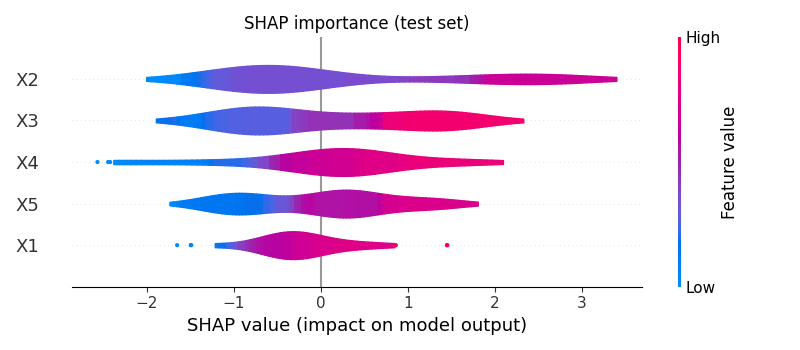
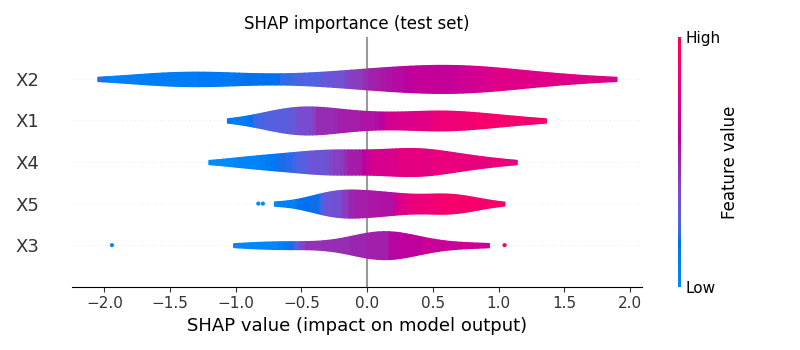
add pdp and ice grpahs

diff --git a/sim.py b/sim.py
@@ -9,6 +9,7 @@ from sklearn.model_selection import train_test_split, GridSearchCV
 from Functions.gen_data import add_noise
 from Functions.plotting import plot_impurity, plot_permutation, plot_SHAP
 from Functions.pred import define_model
+from sklearn.inspection import PartialDependenceDisplay, plot_partial_dependence
 
 # Define the changeable parameters:
 seed = 93
@@ -35,6 +36,7 @@ ones = np.ones((n_features, n_features))
 corr_matrix = iv_cor * ones + (1 - iv_cor) * np.eye(n_features)
 
 # Generate X
+np.random.seed(seed)
 X = np.random.multivariate_normal(mean=means, cov=corr_matrix, size=n_samples)
 
 X_col_names = []
@@ -96,8 +98,6 @@ result = permutation_importance(model, X_test, y_test, n_repeats=permutations,
 perm_importances = result.importances_mean
 dict = {'Feature': vars, "Importance": perm_importances}
 perm_imp_df = pd.DataFrame(dict)
-# just get most important x
-perm_imp_df.sort_values(by="Importance", ascending=False, inplace=True, axis=0)
 # flip so most important at top on graph
 perm_imp_df.sort_values(by="Importance", ascending=True, inplace=True, axis=0)
 # plot
@@ -148,9 +148,27 @@ for plot_type in plot_types:
                   save_path= save_path, title="SHAP importance (test set)",
                   save_name="{}_shap_{}.png".format(pred_model, plot_type))
 
-# PDP
+# 4) Partial Dependence Plot (PDP)
+# select features to plot based on permutation importance
+perm_imp_df.sort_values(by="Importance", ascending=False, inplace=True, axis=0)
+f1=perm_imp_df['Feature'].iloc[0]
+f2=perm_imp_df['Feature'].iloc[1]
+features = [f1,(f1,f2)]
+save_path="Results/Interpretation/PDP/"
+X_test = pd.DataFrame(X_test, columns=vars)
+fig, ax = plt.subplots(figsize=(8, 3.5))
+g = PartialDependenceDisplay.from_estimator(model, X_test, features)
+g.plot()
+plt.tight_layout()
+plt.savefig(save_path+'{}_pdp.png'.format(pred_model), bbox_inches='tight')
 
+# 5) Individual Conditional Expectation (ICE)
+save_path="Results/Interpretation/ICE/"
+fig, ax = plt.subplots(figsize=(8, 3.5))
+g = PartialDependenceDisplay.from_estimator(model, X_test, [f1], kind='both')
+g.plot()
+plt.tight_layout()
+plt.savefig(save_path+'{}_ice.png'.format(pred_model), bbox_inches='tight')
 
-# ICE
 
 print('done!')
